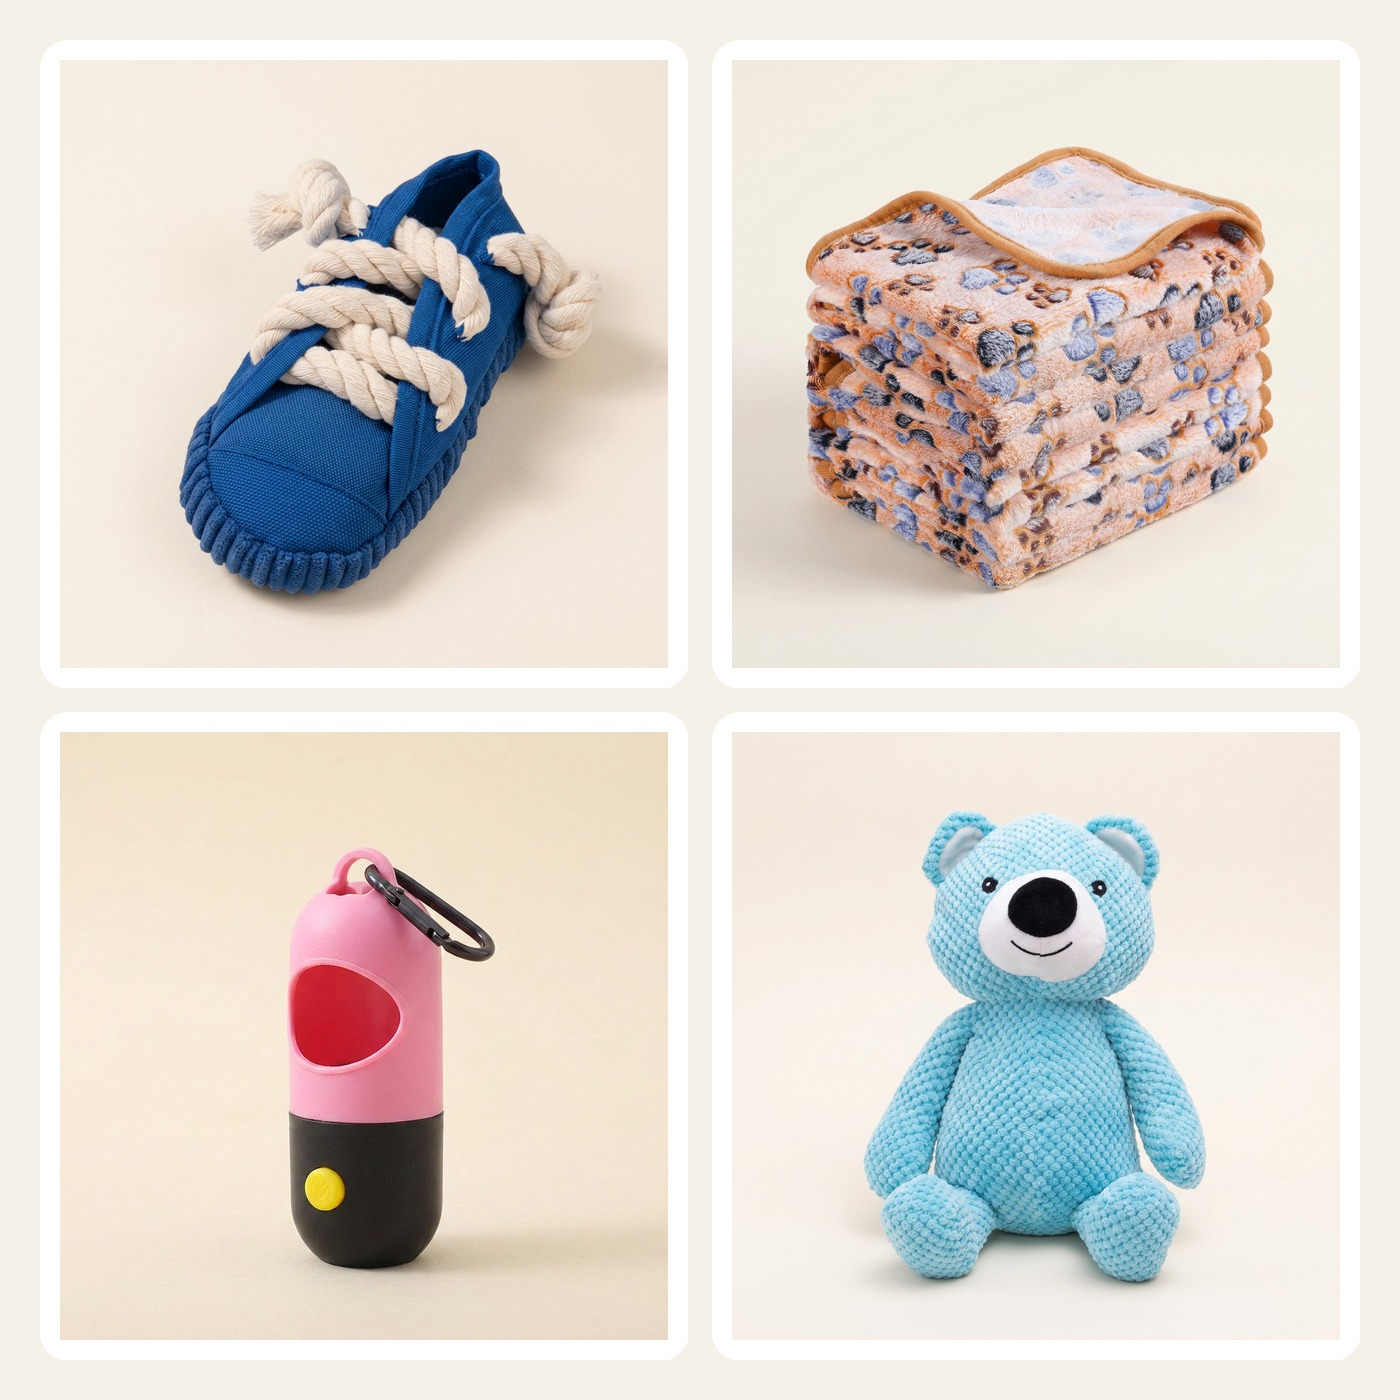
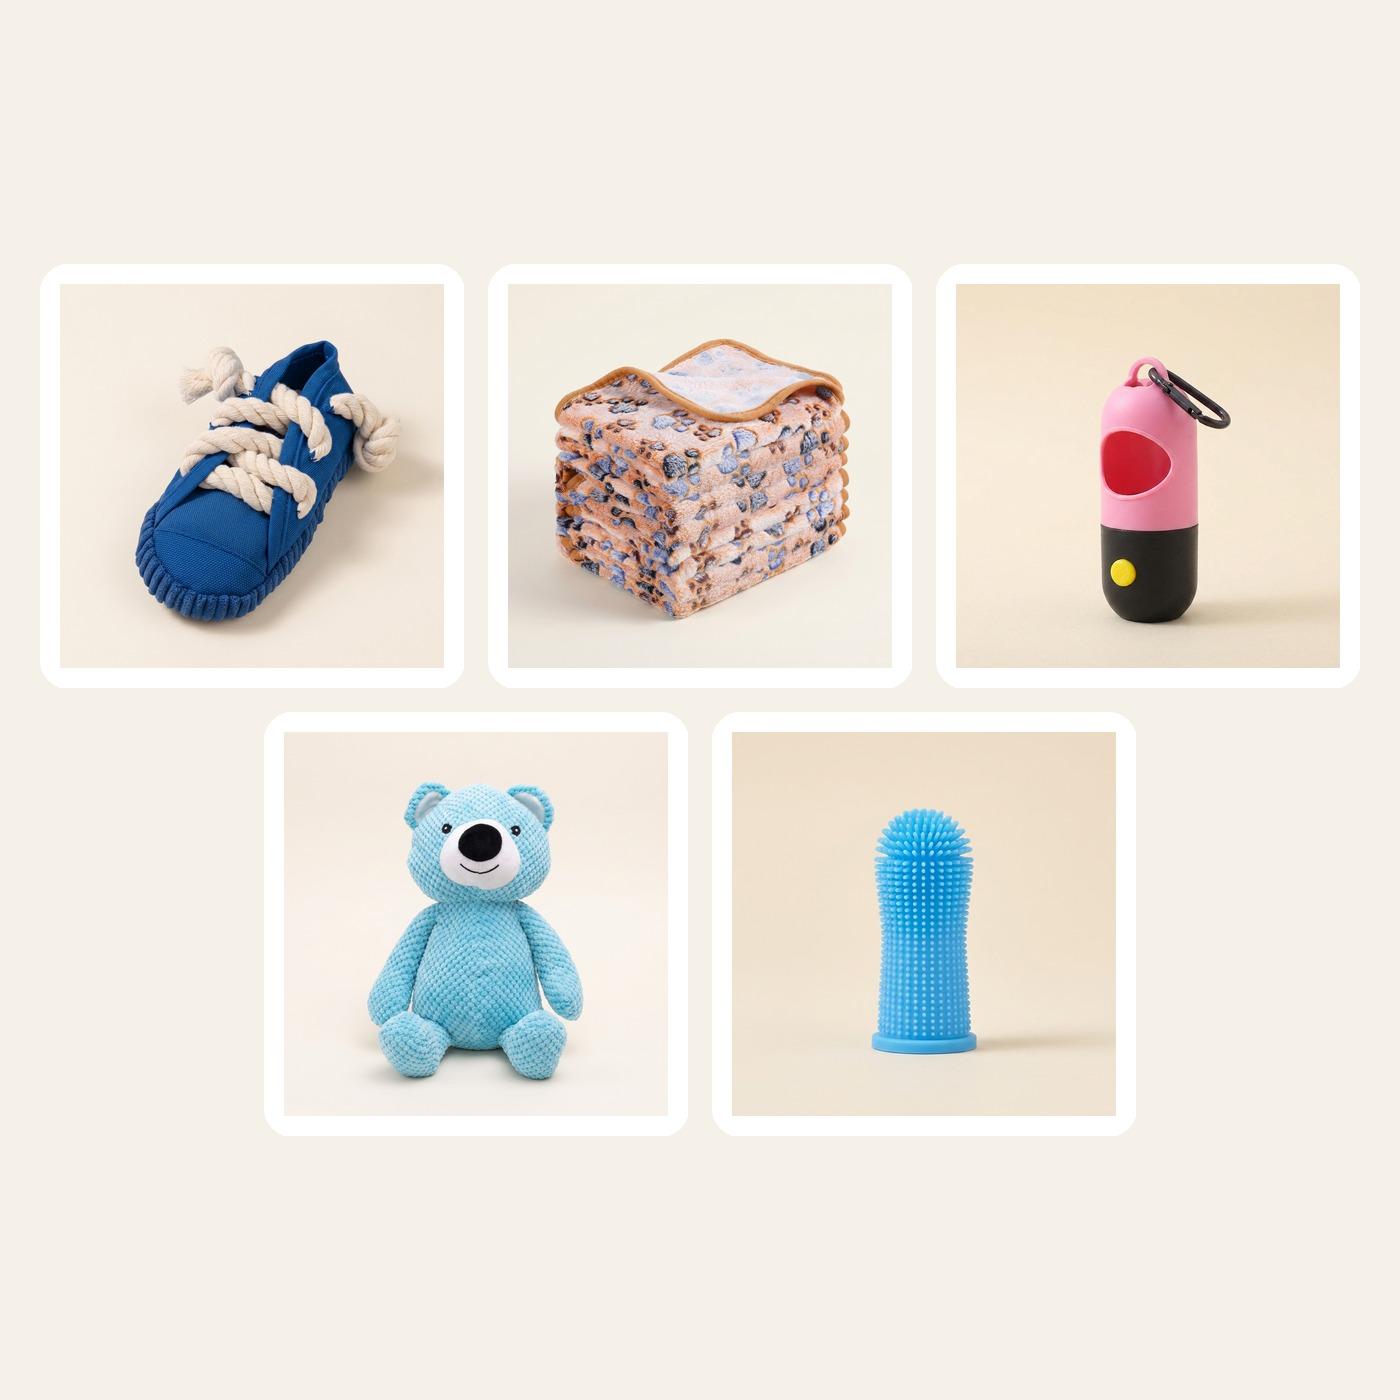
Fix every kit advertising the wrong contents, and the covers that hid an item
The owner spotted the Travel Kit listing products it does not contain. Two
independent defects, both dating from the 2026-08-04 kit rebuild, and ALL SIX
kits were affected.

1. The "What's inside the kit" section is driven by a wagvive.components
   metafield. apply_kits.py rewrote the BUNDLE composition and never touched
   the metafield, so every kit page kept advertising its pre-rebuild contents.
   Travel Kit showed LED Waste Bag Dispenser and Watermelon Rope Frisbee, which
   it does not contain, and omitted three items it does. Calm & Comfort, created
   new, had no metafield at all, so its contents section had nothing to render
   on the page phase 1 was about to buy traffic for.

   This is the worst shape a bug can take: the bundle, the cart and fulfilment
   were all correct, so every check that looked at the bundle passed while the
   page lied.

2. make_kit_covers.py composed a fixed 2x2 grid from images[:4], correct when
   every kit had four components. Five of six now have five, so each cover
   silently dropped one item. Now lays out any count, last row centered.

New config/audit_kits.py checks all five descriptions of a kit against the
bundle: contents metafield, gallery images, cover, prose description, and the
custom.kit reverse links. Run it after ANY change to kit composition.

Verified: audit clean, CJ connection audit clean (36 products, 144 variants,
6 kits), and all six kit pages confirmed correct on the live storefront.

diff --git a/config/audit_kits.py b/config/audit_kits.py
@@ -1,0 +1,250 @@
+#!/usr/bin/env python3
+"""Audit every kit for internal consistency, and optionally repair it.
+
+WHY THIS EXISTS. The owner spotted that the Travel Kit's "What's inside the
+kit" section listed products the kit does not contain. The cause: that section
+is driven by a `wagvive.components` list.product_reference metafield, and
+`apply_kits.py` rewrote the BUNDLE composition on 2026-08-04 without touching
+the metafield. So the storefront kept advertising the pre-rebuild contents.
+
+Nothing warns you about this. The bundle is correct, the cart is correct, the
+fulfilment is correct, and the page lies. That is the worst kind of defect,
+because every automated check that looks at the bundle passes.
+
+There are FOUR independent descriptions of what is in a kit, and they can drift
+apart one at a time:
+
+  1. `bundleComponents`        the truth. What the customer is actually sold.
+  2. `wagvive.components`      metafield driving the on-page contents section.
+  3. the product images        cover grid plus one gallery shot per component.
+  4. `bodyHtml`                the prose description naming each item.
+
+Plus a fifth, pointing the other way:
+
+  5. `custom.kit` on each component, linking it back to the kit it belongs to.
+
+This checks all five against the bundle and reports every divergence.
+
+    python config/audit_kits.py            # report
+    python config/audit_kits.py --apply    # repair metafields, then re-verify
+"""
+import json, os, re, sys, time, urllib.error, urllib.request
+
+ROOT = os.path.dirname(os.path.dirname(os.path.abspath(__file__)))
+TAG = re.compile(r'<[^>]+>')
+
+env = {}
+with open(os.path.join(ROOT, 'config', 'shopify.env'), encoding='utf-8') as fh:
+    for line in fh:
+        line = line.strip()
+        if line and '=' in line:
+            k, v = line.split('=', 1)
+            env[k] = v
+DOMAIN, TOKEN, VERSION = (env['SHOPIFY_STORE_DOMAIN'],
+                          env['SHOPIFY_ADMIN_API_TOKEN'],
+                          env['SHOPIFY_API_VERSION'])
+
+
+def gql(query, variables=None, tries=5):
+    body = json.dumps({'query': query, 'variables': variables or {}}).encode()
+    for attempt in range(tries):
+        req = urllib.request.Request(
+            f'https://{DOMAIN}/admin/api/{VERSION}/graphql.json', data=body,
+            method='POST', headers={'X-Shopify-Access-Token': TOKEN,
+                                    'Content-Type': 'application/json'})
+        try:
+            with urllib.request.urlopen(req, timeout=120) as r:
+                out = json.loads(r.read().decode())
+            if out.get('errors'):
+                raise SystemExit('GraphQL: ' + json.dumps(out['errors'])[:400])
+            return out
+        except urllib.error.HTTPError as exc:
+            if exc.code == 429 and attempt < tries - 1:
+                time.sleep(2 ** attempt)
+                continue
+            raise
+    return {}
+
+
+KITS_Q = '''
+query($q: String!) {
+  products(first: 20, query: $q) {
+    nodes {
+      id title handle bodyHtml
+      variants(first: 100) { nodes { price compareAtPrice } }
+      media(first: 30) { nodes { ... on MediaImage { alt } } }
+      metafields(first: 25) { nodes { namespace key type value } }
+      bundleComponents(first: 12) {
+        nodes { componentProduct { id title status } } }
+    }
+  }
+}'''
+
+COMPONENT_LINK_Q = '''
+query($q: String!) {
+  products(first: 60, query: $q) {
+    nodes { id title
+      metafield(namespace: "custom", key: "kit") { value } }
+  }
+}'''
+
+SET_MF = '''
+mutation($mf: [MetafieldsSetInput!]!) {
+  metafieldsSet(metafields: $mf) {
+    metafields { key namespace }
+    userErrors { field message }
+  }
+}'''
+
+
+def short(t):
+    return t.replace('Wagvive ', '')
+
+
+def main():
+    apply = '--apply' in sys.argv
+    kits = gql(KITS_Q, {'q': "product_type:'Bundles & Kits' AND status:ACTIVE"}
+               )['data']['products']['nodes']
+    prods = {n['id']: n for n in
+             gql(COMPONENT_LINK_Q, {'q': 'status:ACTIVE'})['data']['products']['nodes']}
+
+    problems, fixes = [], []
+
+    for k in kits:
+        title = k['title']
+        comps = [c['componentProduct'] for c in k['bundleComponents']['nodes']]
+        comp_ids = [c['id'] for c in comps]
+        comp_names = [short(c['title']) for c in comps]
+        print(f"\n=== {title} ===")
+        print(f"  bundle ({len(comps)}): {comp_names}")
+
+        # 1. the contents metafield
+        mf = next((m for m in k['metafields']['nodes']
+                   if m['namespace'] == 'wagvive' and m['key'] == 'components'),
+                  None)
+        if not mf:
+            problems.append(f'{title}: NO wagvive.components metafield, so the '
+                            f'"What\'s inside" section has nothing to render')
+            print('  metafield: MISSING')
+            fixes.append((k['id'], comp_ids, title))
+        else:
+            listed = json.loads(mf['value'])
+            names = [short(prods[i]['title']) if i in prods else f'<{i}>'
+                     for i in listed]
+            if listed != comp_ids:
+                extra = [n for i, n in zip(listed, names) if i not in comp_ids]
+                miss = [n for i, n in zip(comp_ids, comp_names) if i not in listed]
+                problems.append(
+                    f'{title}: contents metafield does not match the bundle. '
+                    f'Shows {extra or "nothing"} that is NOT in the kit; '
+                    f'omits {miss or "nothing"}')
+                print(f'  metafield ({len(listed)}): {names}')
+                print(f'    !! NOT in kit : {extra}')
+                print(f'    !! omitted    : {miss}')
+                fixes.append((k['id'], comp_ids, title))
+            else:
+                print(f'  metafield: matches ({len(listed)})')
+
+        # 2. images
+        alts = [(m.get('alt') or '') for m in k['media']['nodes']]
+        gallery = [short(a) for a in alts[1:]]
+        img_missing = [n for n in comp_names if n not in gallery]
+        img_extra = [a for a in gallery if a and a not in comp_names]
+        if img_missing or img_extra:
+            problems.append(f'{title}: gallery images off. missing '
+                            f'{img_missing}, extra {img_extra}')
+        print(f'  gallery: {len(gallery)} shots'
+              + (f'  !! missing {img_missing}' if img_missing else '')
+              + (f'  !! extra {img_extra}' if img_extra else ''))
+        # The cover is a grid composed by make_kit_covers.py. It used to be a
+        # fixed 2x2 taking the first four images, which silently dropped one
+        # item from every five-component kit: the Travel Kit advertised four
+        # pieces while selling five. That generator now lays out however many
+        # there are, so this is no longer assumed to be broken.
+        #
+        # There is no way to count tiles inside a flattened JPEG, so the real
+        # guard is the gallery check above. The cover is composed from the same
+        # component list in the same run, so if the gallery is right the cover
+        # was built from the right set. After changing the generator, eyeball
+        # one five-item kit by hand.
+
+        # 3. description names every component.
+        # Match on significant words rather than any word over 4 characters:
+        # "Lick Bowl with Ball" has no word longer than four, so the old test
+        # flagged it as unnamed even though the description spells it out.
+        body = TAG.sub(' ', k['bodyHtml'] or '').lower()
+        stop = {'with', 'and', 'the', 'for', '&', 'a'}
+
+        def named(name):
+            words = [w.lower().strip('&,') for w in name.split()]
+            words = [w for w in words if w and w not in stop]
+            hits = sum(1 for w in words if w in body)
+            return hits >= max(1, (len(words) + 1) // 2)   # at least half
+
+        unnamed = [n for n in comp_names if not named(n)]
+        if unnamed:
+            problems.append(f'{title}: description does not name {unnamed}')
+            print(f'  description: !! does not name {unnamed}')
+
+        # 4. price consistency
+        prices = {v['price'] for v in k['variants']['nodes']}
+        cmps = {v['compareAtPrice'] for v in k['variants']['nodes']}
+        if len(prices) > 1:
+            problems.append(f'{title}: variants priced inconsistently {prices}')
+        print(f'  price: {sorted(prices)}  compare_at: {sorted(c for c in cmps if c)}')
+
+        # 5. reverse links
+        wrong = []
+        for c in comps:
+            link = (prods.get(c['id']) or {}).get('metafield')
+            if not link:
+                wrong.append(f'{short(c["title"])}: no custom.kit link')
+            elif link['value'] != k['id']:
+                other = prods.get(link['value'], {}).get('title', link['value'])
+                wrong.append(f'{short(c["title"])}: links to {short(str(other))}')
+        if wrong:
+            print(f'  cross-links: !! {wrong}')
+        else:
+            print('  cross-links: all components point back here')
+
+    print('\n' + '=' * 64)
+    if problems:
+        print(f'{len(problems)} PROBLEM(S):')
+        for p in problems:
+            print(f'  ! {p}')
+    else:
+        print('No problems found.')
+
+    if fixes and apply:
+        print(f'\nrepairing {len(fixes)} contents metafield(s)...')
+        payload = [{'ownerId': pid, 'namespace': 'wagvive', 'key': 'components',
+                    'type': 'list.product_reference',
+                    'value': json.dumps(ids)} for pid, ids, _ in fixes]
+        r = gql(SET_MF, {'mf': payload})
+        errs = r['data']['metafieldsSet']['userErrors']
+        if errs:
+            print('  FAILED:', json.dumps(errs)[:300])
+            return 1
+        for _, _, t in fixes:
+            print(f'  set {t}')
+        # re-read and confirm
+        fresh = gql(KITS_Q, {'q': "product_type:'Bundles & Kits' AND status:ACTIVE"}
+                    )['data']['products']['nodes']
+        bad = 0
+        for k in fresh:
+            comp_ids = [c['componentProduct']['id']
+                        for c in k['bundleComponents']['nodes']]
+            mf = next((m for m in k['metafields']['nodes']
+                       if m['namespace'] == 'wagvive'
+                       and m['key'] == 'components'), None)
+            ok = mf and json.loads(mf['value']) == comp_ids
+            bad += not ok
+            print(f"  {'OK ' if ok else 'BAD'} {k['title']}")
+        return 1 if bad else 0
+    elif fixes:
+        print(f'\n{len(fixes)} metafield(s) need repair. Re-run with --apply.')
+    return 1 if problems else 0
+
+
+if __name__ == '__main__':
+    sys.exit(main())

diff --git a/config/make_kit_covers.py b/config/make_kit_covers.py
@@ -89,30 +89,46 @@ def fetch(url):
 
 
 def compose(images):
-    """2x2 grid. Each component gets an equal, square, white tile."""
-    n = min(len(images), 4)
-    cols = 2 if n > 1 else 1
-    rows = 2 if n > 2 else 1
-    cell = (CANVAS - 2 * PAD - (cols - 1) * GAP) // cols
-    cell_h = (CANVAS - 2 * PAD - (rows - 1) * GAP) // rows
-    side = min(cell, cell_h)
+    """Grid covering EVERY component. Each gets an equal, square, white tile.
+
+    This used to be a fixed 2x2 that took images[:4], which was correct when
+    every kit had four components. The 2026-08-04 rebuild moved five of the six
+    kits to FIVE components, so the cover silently dropped one item from each:
+    the Travel Kit advertised four pieces while selling five. A cover that
+    understates the offer is a straight conversion loss on the page we buy
+    traffic for, and nothing flagged it.
+
+    Layout is derived from the count, and the final row is centered so a
+    five-item kit reads as 3 over 2 rather than 3 over 2-shoved-left.
+    """
+    n = len(images)
+    if n <= 1:
+        cols = 1
+    elif n <= 4:
+        cols = 2
+    else:
+        cols = 3
+    rows = (n + cols - 1) // cols
+
+    side = min((CANVAS - 2 * PAD - (cols - 1) * GAP) // cols,
+               (CANVAS - 2 * PAD - (rows - 1) * GAP) // rows)
 
     canvas = Image.new('RGB', (CANVAS, CANVAS), BG)
-    total_w = cols * side + (cols - 1) * GAP
     total_h = rows * side + (rows - 1) * GAP
-    ox = (CANVAS - total_w) // 2
     oy = (CANVAS - total_h) // 2
 
-    for i, im in enumerate(images[:4]):
+    for i, im in enumerate(images):
+        r, c = divmod(i, cols)
+        in_row = min(cols, n - r * cols)          # this row may be short
+        row_w = in_row * side + (in_row - 1) * GAP
+        ox = (CANVAS - row_w) // 2                 # center every row
         tile = Image.new('RGB', (side, side), TILE_BG)
         # contain, not crop - a cropped product photo loses the product
         pic = im.copy()
         pic.thumbnail((side - 40, side - 40), Image.LANCZOS)
         tile.paste(pic, ((side - pic.width) // 2, (side - pic.height) // 2))
         tile = rounded(tile, RADIUS)
-        x = ox + (i % cols) * (side + GAP)
-        y = oy + (i // cols) * (side + GAP)
-        canvas.paste(tile, (x, y))
+        canvas.paste(tile, (ox + c * (side + GAP), oy + r * (side + GAP)))
     return canvas
 
 
@@ -149,7 +165,7 @@ def main():
             print(f'{d["title"]:28} no component images'); continue
 
         images = []
-        for title, url in comps[:4]:
+        for title, url in comps:      # every component, not the first four
             try:
                 images.append(fetch(url))
             except Exception as exc:
